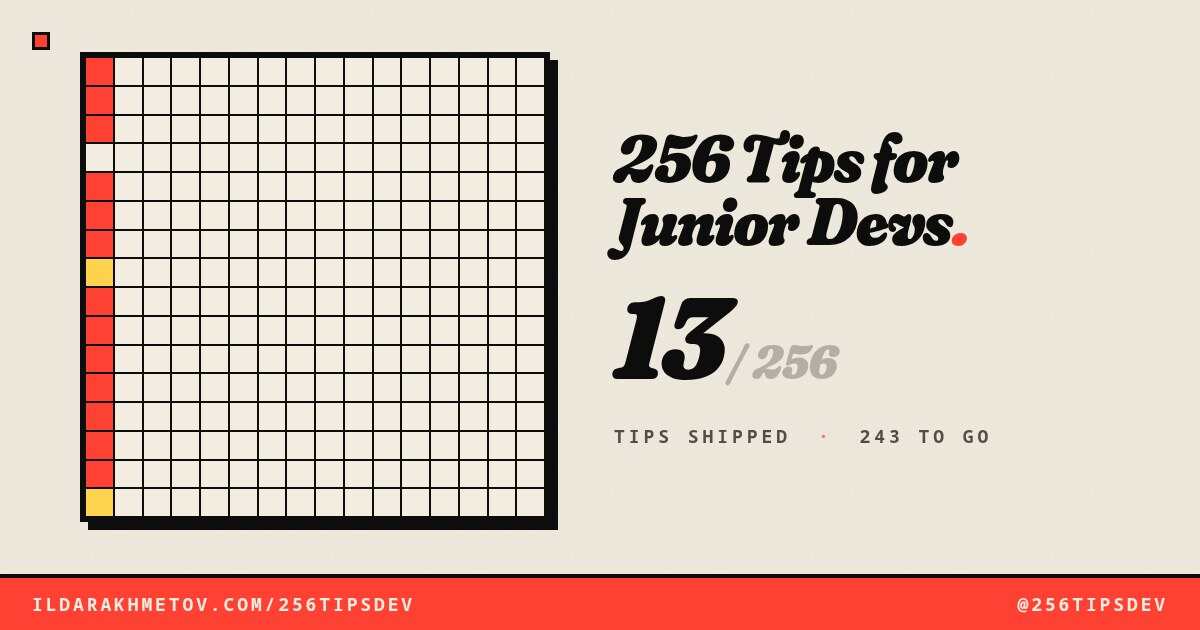
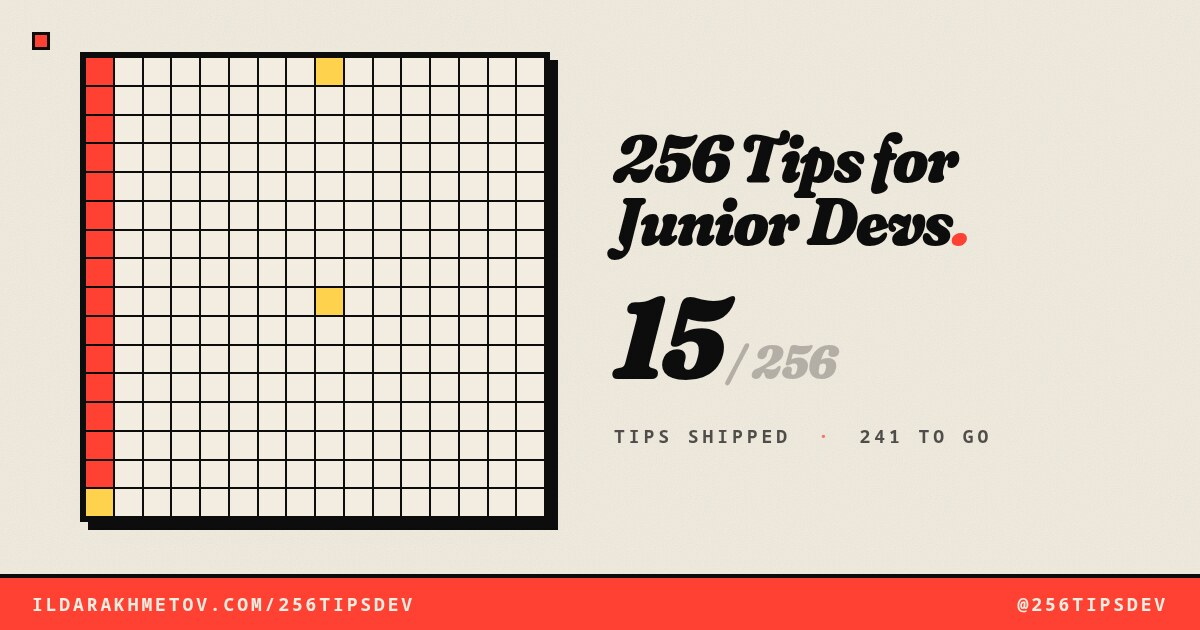
256tipsdev: add Tip 112 — English is not Your First Language? Embrace It

diff --git a/256tipsdev/english-is-not-your-first-language.md b/256tipsdev/english-is-not-your-first-language.md
@@ -1,0 +1,32 @@
+---
+layout: tip.vto
+title: "English is not Your First Language? Embrace It"
+tip_number: 112
+date: 2026-06-03 12:00:00
+description: "Speaking English as a second or third language isn't a disadvantage — knowing another language and culture is a strategic edge. Don't apologize for it; embrace it."
+tags:
+- tip
+- mindset
+- communication
+- career
+- junior-devs
+url: /256tipsdev/english-is-not-your-first-language/
+---
+
+I am writing this in English. It is not my first language (actually, third). Am I at a disadvantage?
+
+On a shallow level, yes. I still can't quite understand many song lyrics, and my Canadian friends still have to explain some jokes to me.
+
+However, on a deeper level, the disadvantage disappears completely.
+
+Just think about this -- I learned English well enough to write this series of tips (and yes, yes, it is *me* writing, not an LLM). Honestly, after years of practice, I'm probably a better writer than most native English speakers. I also record videos -- and yes, I do have an accent! But what matters is that I have something to say.
+
+Now, there is an actual advantage that I (and many of you reading/watching this) have and many native speakers don't -- I know a whole other language, which is a unique feature of my brain.
+
+Some studies show that humans think in a language. So, for those of us who speak more than one -- our brain has this cool feature -- a *multilanguage thinking mode*! We might not always notice how it works, but think about this as an engineer for a moment -- if the brain has more "instruction sets," it must be able to do more, right?!
+
+Now, on a purely practical level. You can read more books (I feel so privileged to enjoy Dostoyevsky's original writing). You can relate to more people. You can do business in more places -- not just because you understand *what* people say in Portuguese/Hindi/Swahili/Russian, but because you also understand the culture -- *how* to say things and build work relationships.
+
+That's not just nouns and verbs -- that's your whole *language arbitrage* in action!
+
+So, while you work on your English (which *does* have enormous value and *does* open doors worldwide) -- never forget that strategic advantage you have if you're not a native English speaker. Don't hide that advantage, don't apologize for it -- embrace it.